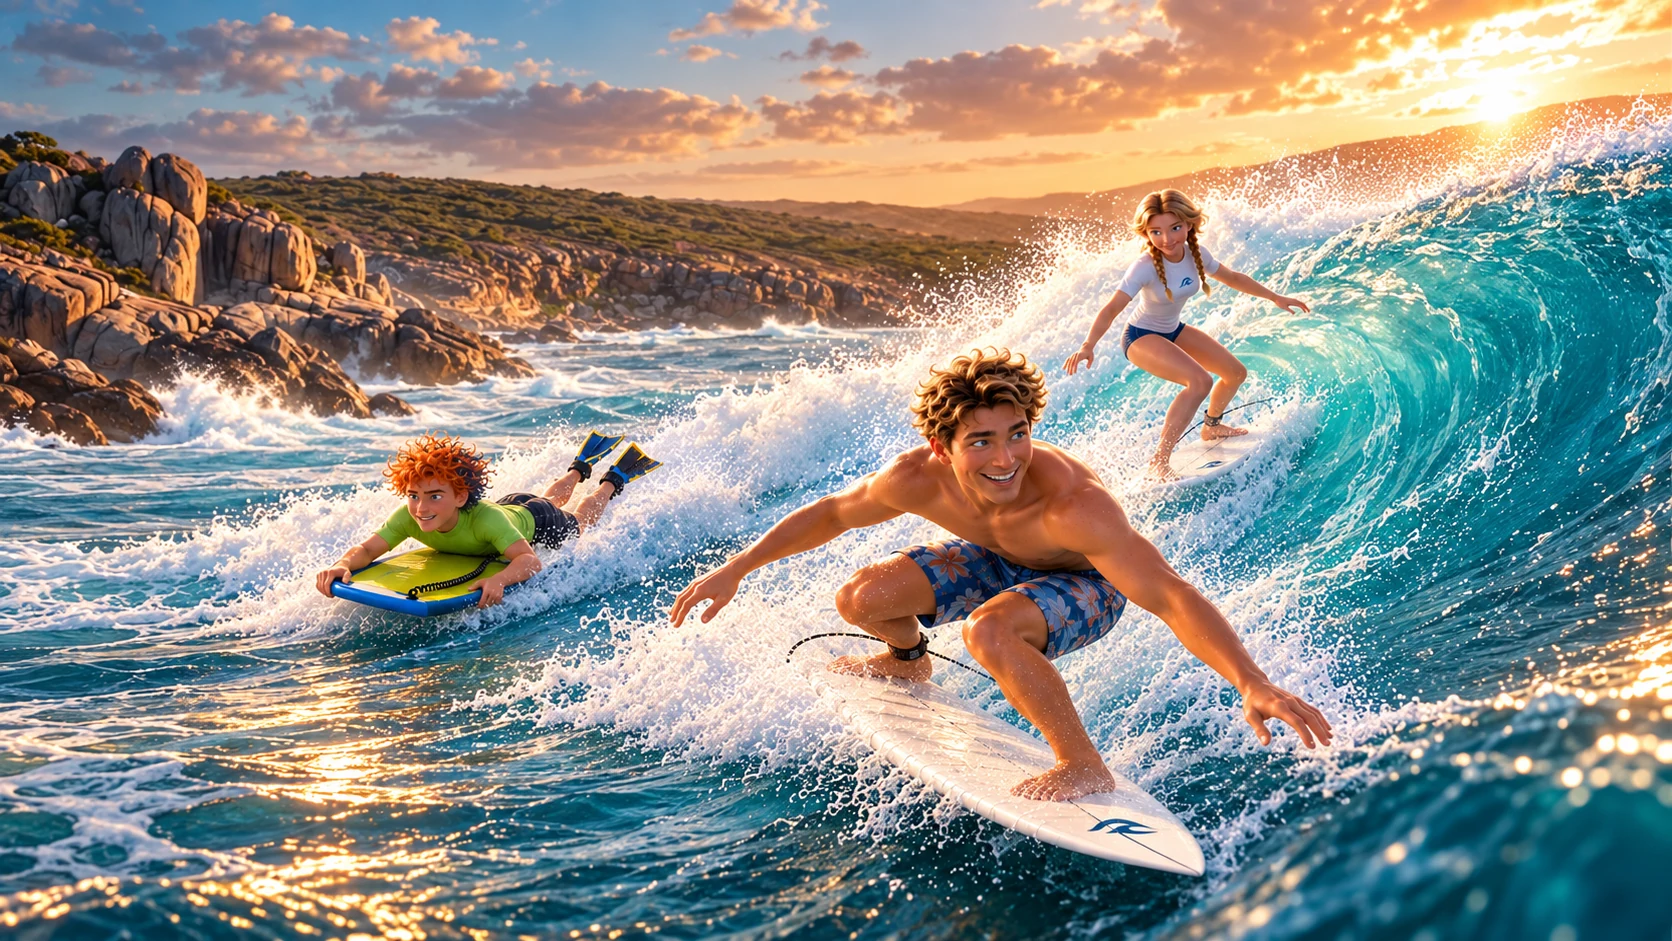
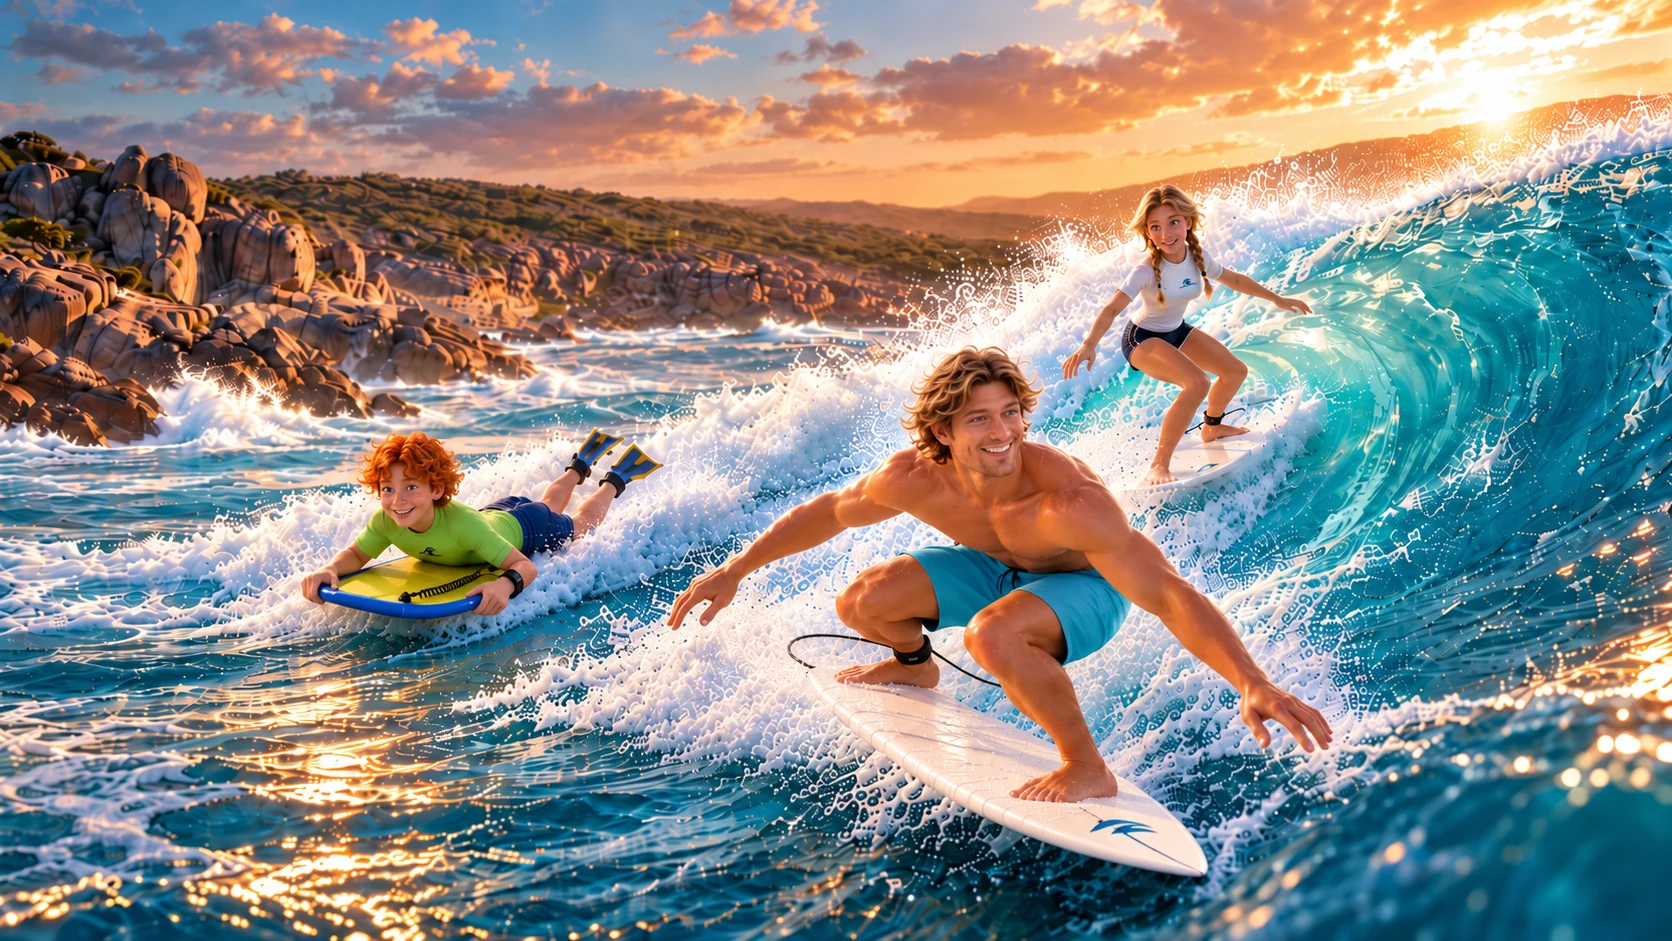
feat(loading): Andrew's redrawn crew picture is the start-up cover, and only that; the flora slides cover paddling out and back to the dune

diff --git a/index.html b/index.html
@@ -77,7 +77,7 @@
     </style>
   </head>
   <body>
-    <div id="ld-cover" class="ld-cover is-in is-blocking" data-mode="boot" data-slides="crew-wave flora-balga flora-coast-daisy-bush flora-coast-sword-sedge flora-cockies-tongues flora-fan-flower flora-parrot-bush flora-peppermint flora-pigface flora-prickly-conostylis flora-rice-flower flora-sea-spurge flora-spyridium" aria-label="Loading Liquid Dreams" role="status">
+    <div id="ld-cover" class="ld-cover is-in is-blocking" data-mode="boot" data-boot="crew-wave" data-slides="flora-balga flora-coast-daisy-bush flora-coast-sword-sedge flora-cockies-tongues flora-fan-flower flora-parrot-bush flora-peppermint flora-pigface flora-prickly-conostylis flora-rice-flower flora-sea-spurge flora-spyridium" aria-label="Loading Liquid Dreams" role="status">
       <div class="ld-cover-bg"><img alt="" sizes="100vw" /></div>
       <div class="ld-shade"></div>
       <div class="ld-card">
@@ -100,15 +100,16 @@
     <!-- The pictures' fact cards: written by tools/loadingArt.py from art/loading/cards.json (don't edit here). -->
     <script type="application/json" id="ld-cards">{"flora-balga":{"kicker":"Local flora · Cape to Cape","name":"Balga","common":"Grass tree","latin":"Xanthorrhoea preissii","fact":"Grows only a centimetre or so a year, so a tall one can be centuries old. Its blackened trunk shrugs off bushfire, and a fire makes it flower all the more.","noongar":"people named it balga. Its gum, spears for fishing and fire drills all came from it, and the bardi grubs living inside were good tucker."},"flora-coast-daisy-bush":{"kicker":"Local flora · Cape to Cape","name":"Daisy-bush","common":"Coast daisy-bush","latin":"Olearia axillaris","fact":"A silvery, scented shrub that thrives in the salt wind. The Dutch explorer Willem de Vlamingh is said to have cooked with its leaves on Rottnest in 1696."},"flora-coast-sword-sedge":{"kicker":"Local flora · Cape to Cape","name":"Sword-sedge","common":"Coast sword-sedge","latin":"Lepidosperma gladiatum","fact":"Big clumps of flat, sharp-pointed leaves, as long as swords, with spiky brown flower heads standing on tall stalks through summer and autumn.","noongar":"people call it kerbein, and ate the tender part of its stem all year round."},"flora-cockies-tongues":{"kicker":"Local flora · Cape to Cape","name":"Cockies’ tongues","common":"","latin":"Templetonia retusa","fact":"Its bright red pea flowers light up the limestone cliffs in winter.","noongar":"people call the flower inji, and Injidup, one of the coast’s best-known surf breaks, takes its name from it."},"flora-fan-flower":{"kicker":"Local flora · Cape to Cape","name":"Fan-flower","common":"Thick-leaved fan-flower","latin":"Scaevola crassifolia","fact":"Every flower looks cut in half, its petals all fanned out to one side. Scaevola means “left-handed” in Latin, and crassifolia “thick-leaved”."},"flora-parrot-bush":{"kicker":"Local flora · Cape to Cape","name":"Parrot bush","common":"","latin":"Banksia sessilis","fact":"It pours out nectar for honeyeaters, and black cockatoos and ringneck parrots feast on its seed. Fire kills it, but it drops so much seed that it bounces straight back.","noongar":"names for it include budjan and butyak."},"flora-peppermint":{"kicker":"Local flora · Cape to Cape","name":"Peppermint","common":"WA peppermint","latin":"Agonis flexuosa","fact":"The critically endangered western ringtail possum depends on it, feeding at night on its young leaves, flowers and fruit.","noongar":"people call it wonnil (spellings vary). Its leaves were used as an antiseptic, and young trunks became spear shafts."},"flora-pigface":{"kicker":"Local flora · Cape to Cape","name":"Pigface","common":"","latin":"Carpobrotus virescens","fact":"A fleshy succulent that sprawls metres across the dunes and cliffs, with big purple-pink flowers around a white centre.","noongar":"people ate its fruit in late December, and used its juice to soothe burns, scalds and stings."},"flora-prickly-conostylis":{"kicker":"Local flora · Cape to Cape","name":"Conostylis","common":"Prickly conostylis","latin":"Conostylis aculeata","fact":"Aculeata means “with prickles”: its strappy leaves are edged with spines. In spring, bright yellow, furry tube flowers cluster on tall stalks."},"flora-rice-flower":{"kicker":"Local flora · Cape to Cape","name":"Rice flower","common":"Pink rice flower","latin":"Pimelea ferruginea","fact":"Round heads of tiny tube flowers top every branch, usually pink, sometimes white. Gardeners grow it around the world. Ferruginea means “rust-coloured”."},"flora-sea-spurge":{"kicker":"Coastal weed · Cape to Cape","name":"Sea spurge","common":"","latin":"Euphorbia paralias","fact":"An invader from southern Europe and North Africa, first recorded in WA at Albany in 1927. Its seeds float along the coast, and its bitter sap stings skin and eyes."},"flora-spyridium":{"kicker":"Local flora · Cape to Cape","name":"Basket bush","common":"","latin":"Spyridium globulosum","fact":"Its name is Greek for “little basket”: each head of tiny cream flowers sits in a cup of white, furry leaves. Common on the dunes along this coast."}}</script>
     <script>
-      // Inline so the cover paints before the game's code loads: pick the start-up picture from data-slides (the
+      // Inline so the cover paints before the game's code loads: show the start-up picture (data-boot, one of the
       // copies tools/loadingArt.py makes), build the coin's rim, and show the art only once picture and emblem are
       // decoded, so nothing half-drawn shows (it fades in over 300 ms).
       (function () {
         var cover = document.getElementById('ld-cover');
         var names = (cover.dataset.slides || '').split(/\s+/).filter(Boolean);
-        // ?slide=<name> shows that picture (to review a card); otherwise one at random.
+        // The start-up picture is always the crew surfing (Andrew 2026-10-08); the slides are for the later covers.
+        // ?slide=<name> shows that slide instead (to review its card).
         var asked = new URLSearchParams(location.search).get('slide');
-        var name = names.indexOf(asked) >= 0 ? asked : names[Math.floor(Math.random() * names.length)];
+        var name = names.indexOf(asked) >= 0 ? asked : cover.dataset.boot || names[0];
         var img = cover.querySelector('.ld-cover-bg img');
         img.srcset = '/loading/' + name + '-1920.webp 1920w, /loading/' + name + '-full.webp 3840w';
         img.src = '/loading/' + name + '-1920.webp';

diff --git a/src/app/loadingSlides.ts b/src/app/loadingSlides.ts
@@ -1,6 +1,7 @@
-// The loading cover's pictures: index.html lists them on #ld-cover's data-slides (names of the copies
-// tools/loadingArt.py makes from art/loading/slides/). Its inline script picks the start-up one; each later cover picks
-// again here, never the one just shown when there is another.
+// The loading cover's pictures: index.html names the start-up one on #ld-cover's data-boot (the crew surfing, shown only
+// while the game first loads) and lists the slides on data-slides (copies tools/loadingArt.py makes from
+// art/loading/slides/). Each later cover (paddling out, back to the dune) picks a slide here, never the one just shown
+// when there is another.
 
 /** The names in a data-slides attribute. */
 export function parseSlides(attr: string | undefined): string[] {
